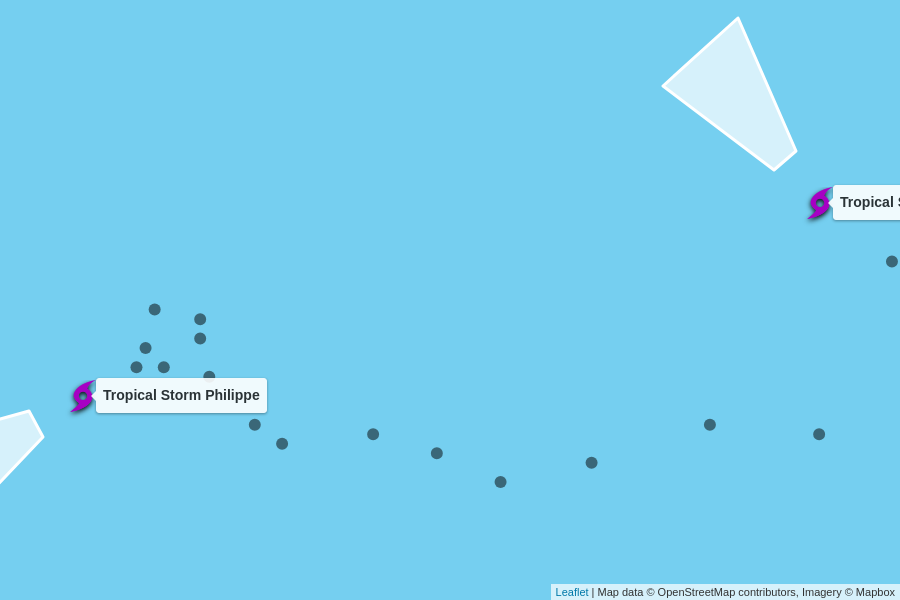
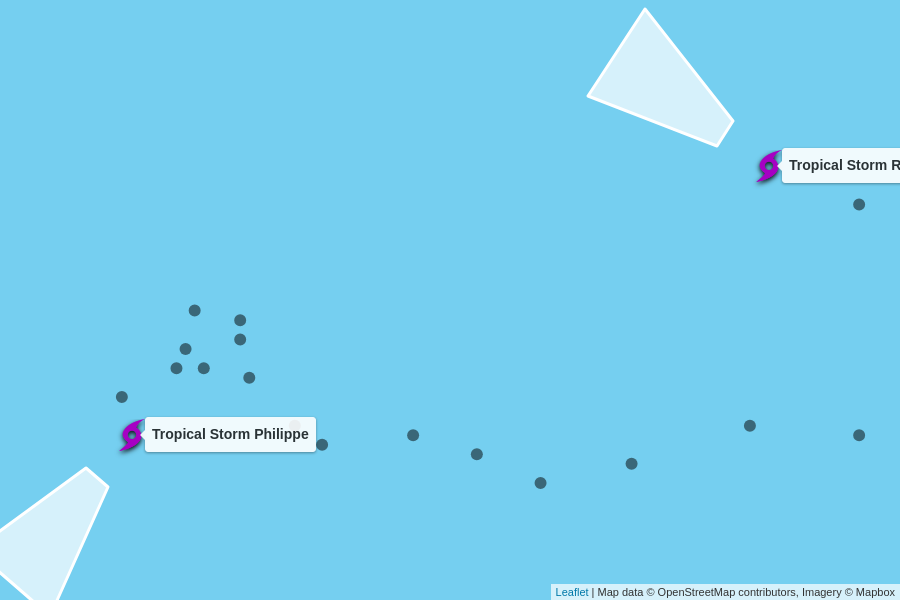
automatic update

diff --git a/docs/index.html b/docs/index.html
@@ -104,7 +104,7 @@
         <td colspan="6" class="storm category-0" >
           <h2>
             Tropical Storm Philippe
-            <p class="updated">last updated <span data-time>2023-09-29T21:00:00.000Z</span></p>
+            <p class="updated">last updated <span data-time>2023-09-30T03:00:00.000Z</span></p>
           </h2>
         </td>
       </tr>
@@ -119,12 +119,12 @@
       </tr>
       <tr>
         <td class="spacer"></td>
-        <td>50 mph<br>+5 mph since last update</td>
-        <td>1002 mb<br>-1 mb since last update</td>
+        <td>50 mph<br>0 mph since last update</td>
+        <td>1002 mb<br>0 mb since last update</td>
         <td>
-          5 mph to the west-southwest
+          3 mph to the southwest
           <br/>
-          <span style="display: inline-block; font-size: 1.5em; transform: rotate(240deg);">↑</span>
+          <span style="display: inline-block; font-size: 1.5em; transform: rotate(220deg);">↑</span>
         </td>
         <td><a href="https://raw.githubusercontent.com/mgwalker/atlantic-hurricanes/main/data/csv/AL172023.csv">AL172023.csv</a></td>
         <td><a href="https://www.nhc.noaa.gov/archive/2023/PHILIPPE.shtml?">NHC advisories</a></td>
@@ -148,7 +148,7 @@
         <td colspan="6" class="storm category-0" >
           <h2>
             Tropical Storm Rina
-            <p class="updated">last updated <span data-time>2023-09-29T21:00:00.000Z</span></p>
+            <p class="updated">last updated <span data-time>2023-09-30T03:00:00.000Z</span></p>
           </h2>
         </td>
       </tr>
@@ -163,12 +163,12 @@
       </tr>
       <tr>
         <td class="spacer"></td>
-        <td>45 mph<br>0 mph since last update</td>
-        <td>1003 mb<br>0 mb since last update</td>
+        <td>50 mph<br>+5 mph since last update</td>
+        <td>999 mb<br>-4 mb since last update</td>
         <td>
-          9 mph to the northwest
+          12 mph to the northwest
           <br/>
-          <span style="display: inline-block; font-size: 1.5em; transform: rotate(320deg);">↑</span>
+          <span style="display: inline-block; font-size: 1.5em; transform: rotate(305deg);">↑</span>
         </td>
         <td><a href="https://raw.githubusercontent.com/mgwalker/atlantic-hurricanes/main/data/csv/AL182023.csv">AL182023.csv</a></td>
         <td><a href="https://www.nhc.noaa.gov/archive/2023/RINA.shtml?">NHC advisories</a></td>
